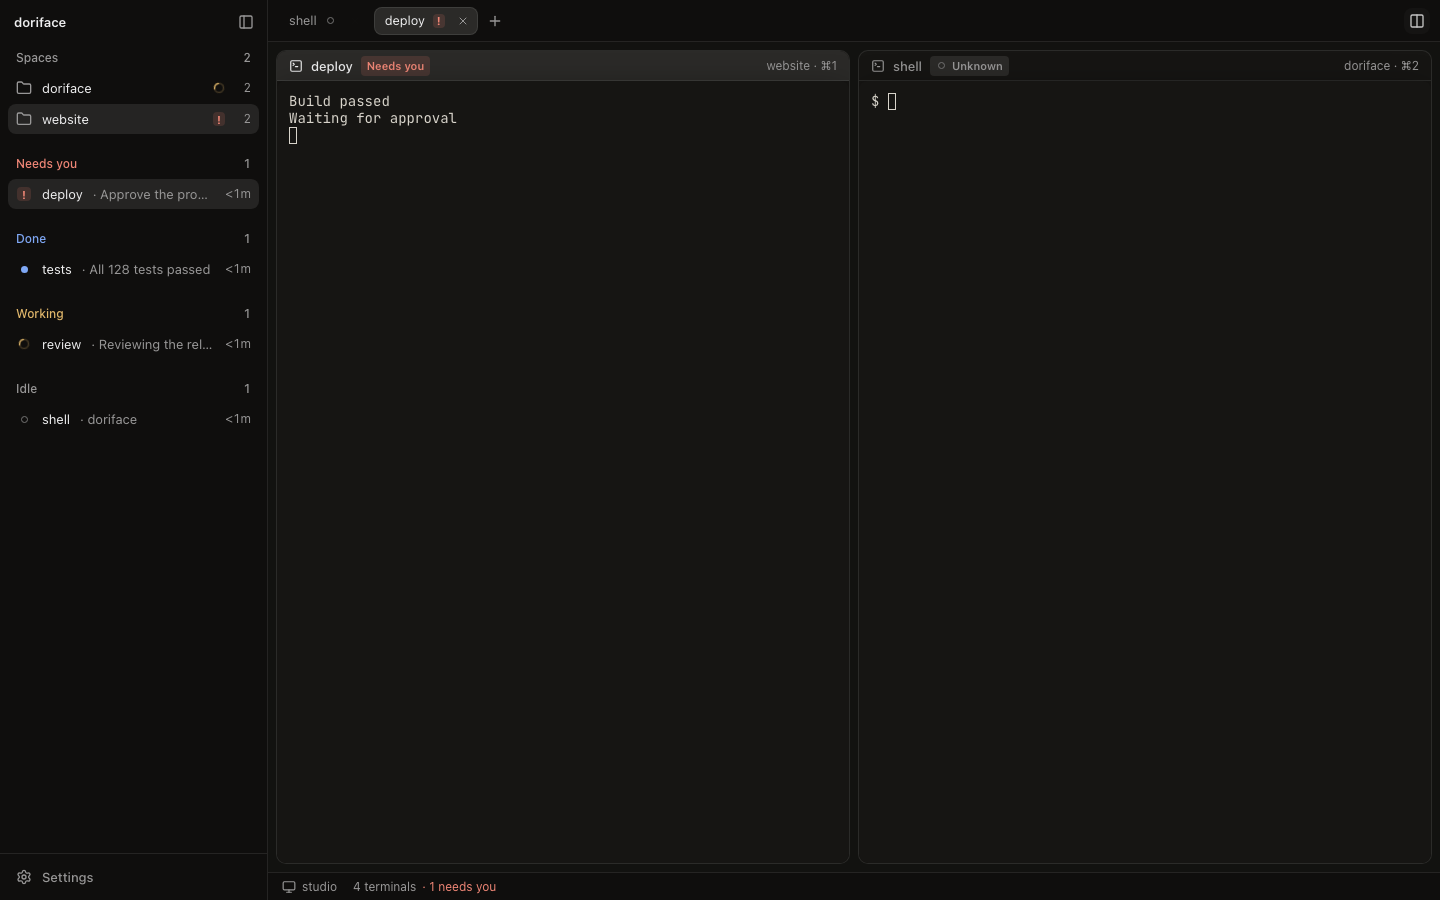
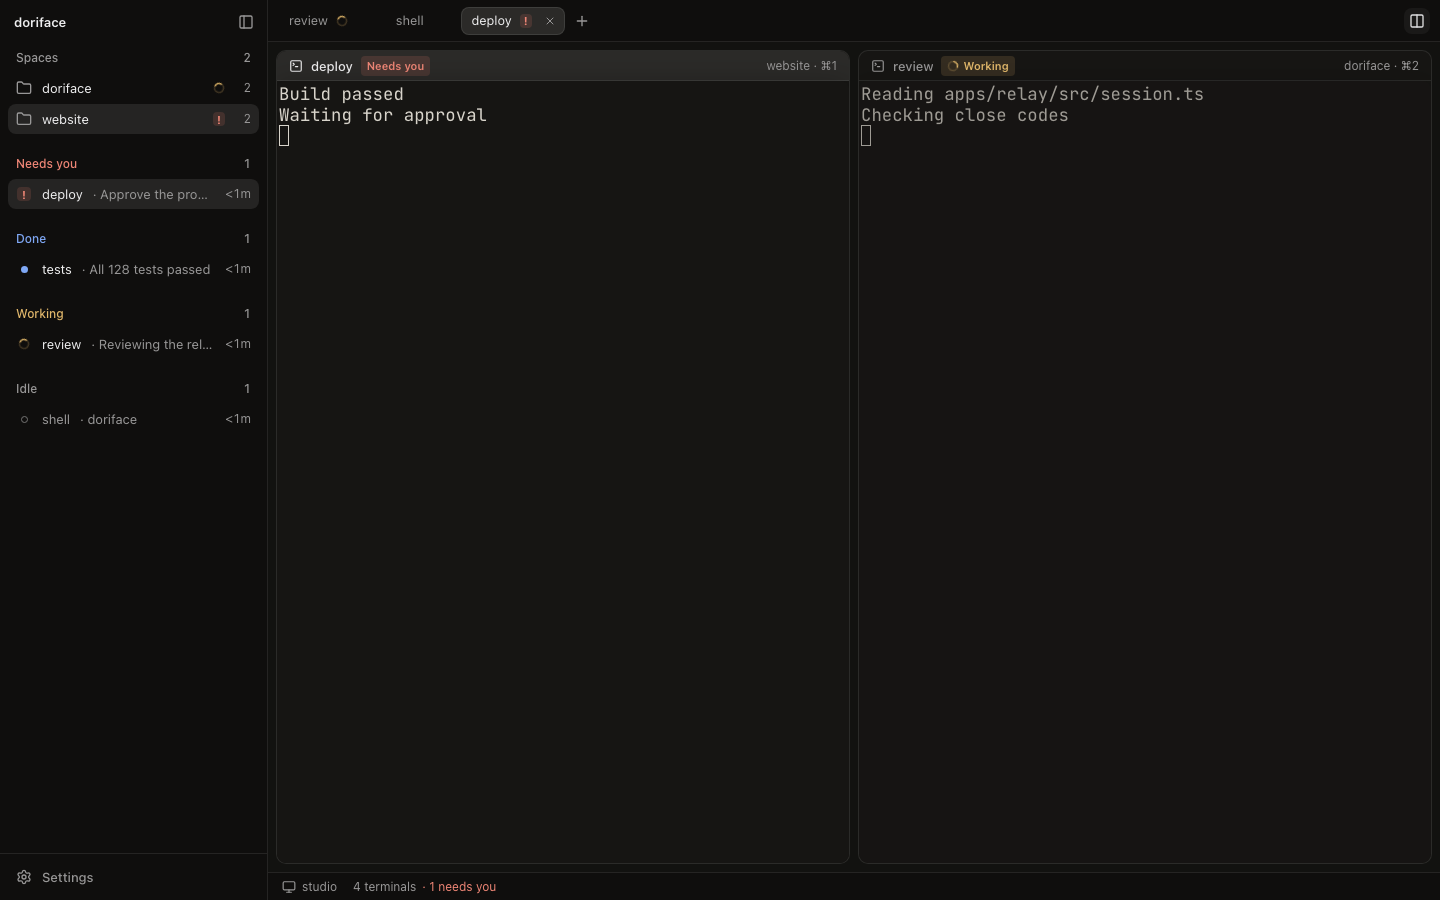
docs(web): re-capture every design screenshot in day and night at 1440 and 390
Adds the Terminal and Keybindings settings screens. The capture opens each shot's seeded terminal by name instead of relying on which tab opened first, and the e2e host silences the macOS bash banner.

Changed region(s): [[0.5938, 0.0622, 0.8125, 0.1556], [0.1875, 0.0, 0.4062, 0.0622], [0.1875, 0.0933, 0.3438, 0.1556]]

diff --git a/apps/web/e2e/capture.e2e.ts b/apps/web/e2e/capture.e2e.ts
@@ -19,8 +19,12 @@ interface Shot {
   readonly run: (page: Page, width: Width) => Promise<void>;
 }
 
-const terminalReady = (page: Page) =>
-  expect(page.locator("[data-terminal]").first()).toContainText("$", { timeout: 15_000 });
+const focusedTerminal = (page: Page) => page.locator('[data-focused="true"] [data-terminal]');
+/** Opens the seeded terminal whose sidebar row matches, so the shot never depends on which tab opened first. */
+const openTerminal = async (page: Page, name: RegExp, text: string | RegExp) => {
+  await page.getByRole("button", { name }).first().click();
+  await expect(focusedTerminal(page)).toContainText(text, { timeout: 15_000 });
+};
 
 const SHOTS: readonly Shot[] = [
   {
@@ -29,11 +33,8 @@ const SHOTS: readonly Shot[] = [
     run: async (page, width) => {
       await page.goto("/");
       if (width === "390") return void (await expect(page.getByText("Needs you")).toBeVisible());
-      await terminalReady(page);
-      await page
-        .getByRole("button", { name: /deploy/ })
-        .first()
-        .click();
+      await openTerminal(page, /shell/, "$");
+      await openTerminal(page, /deploy/, "Waiting for approval");
       await page.getByRole("button", { name: "Split" }).click();
     },
   },
@@ -42,7 +43,7 @@ const SHOTS: readonly Shot[] = [
     connected: true,
     run: async (page, width) => {
       await page.goto("/");
-      if (width === "1440") return terminalReady(page);
+      if (width === "1440") return openTerminal(page, /shell/, "$");
       await page
         .getByRole("button", { name: /deploy/ })
         .first()

diff --git a/apps/web/e2e/host.ts b/apps/web/e2e/host.ts
@@ -19,6 +19,7 @@ const env = {
   SHELL: "/bin/sh",
   PS1: "$ ",
   ENV: "",
+  BASH_SILENCE_DEPRECATION_WARNING: "1",
 };
 const coreDir = join(dir, "state", "herdr-core", session);
 mkdirSync(coreDir, { recursive: true });
